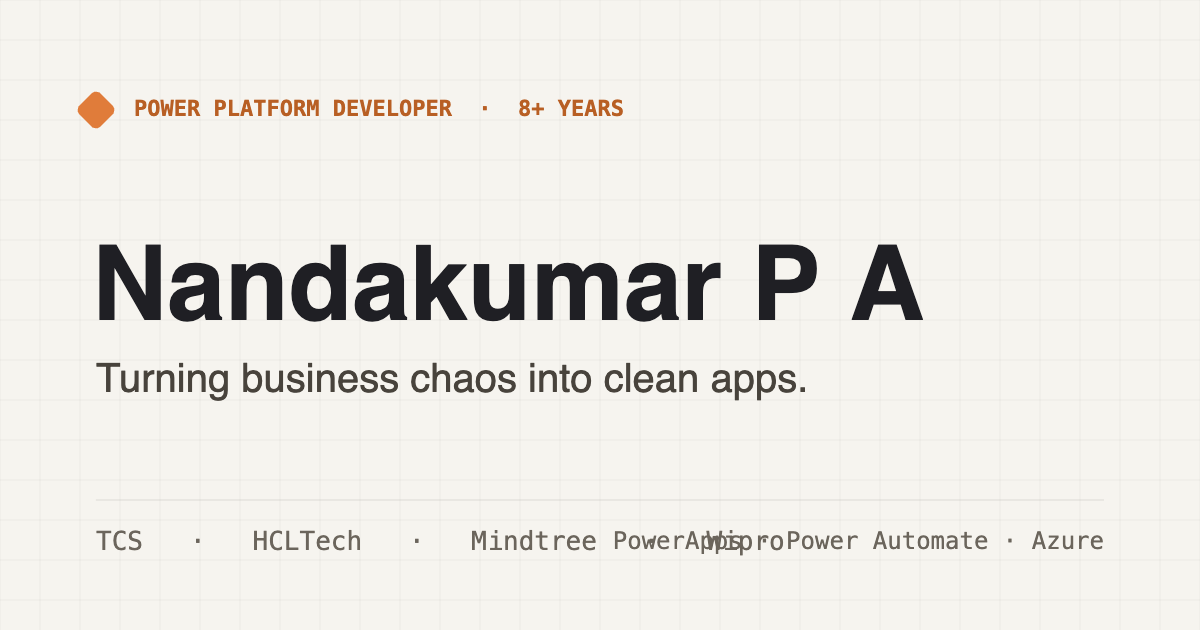
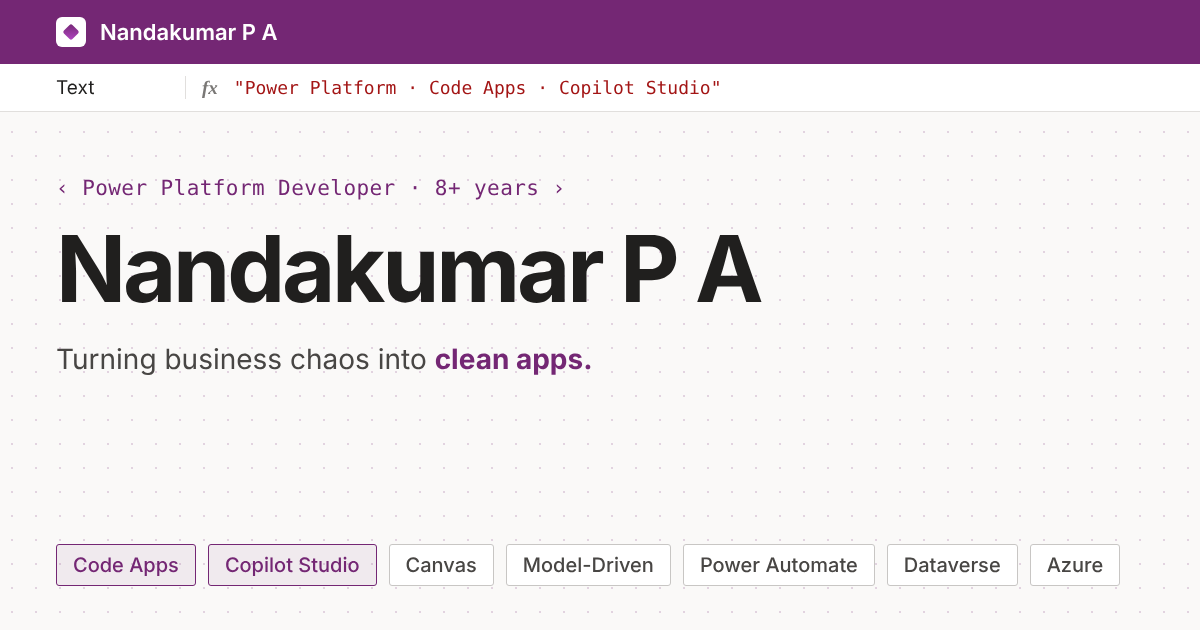
New purple OG image, WebP portrait, drop unused fonts, add JSON-LD, robots, sitemap, analytics
Claude-Session: https://claude.ai/code/session_012kyMgGcSE2nW8ASXeftVtj

diff --git a/Portfolio.html b/Portfolio.html
@@ -23,8 +23,24 @@
 <meta name="twitter:image" content="https://nandaportfolio-neon.vercel.app/assets/og.png" />
 <link rel="preconnect" href="https://fonts.googleapis.com" />
 <link rel="preconnect" href="https://fonts.gstatic.com" crossorigin />
-<link href="https://fonts.googleapis.com/css2?family=Inter:wght@400;500;600;700&family=Space+Grotesk:wght@400;500;600;700&family=Hanken+Grotesk:wght@400;500;600;700&family=JetBrains+Mono:wght@400;500;600&display=swap" rel="stylesheet" />
+<link href="https://fonts.googleapis.com/css2?family=Inter:wght@400;500;600;700&family=JetBrains+Mono:wght@400;500&display=swap" rel="stylesheet" />
 <link rel="stylesheet" href="styles.css" />
+<script type="application/ld+json">
+{
+  "@context": "https://schema.org",
+  "@type": "Person",
+  "name": "Nandakumar P A",
+  "url": "https://nandaportfolio-neon.vercel.app/",
+  "image": "https://nandaportfolio-neon.vercel.app/assets/portrait.webp",
+  "jobTitle": "Power Platform Developer",
+  "description": "Power Platform developer with 8+ years building Canvas, Model-Driven and Code Apps, Power Automate flows and Copilot Studio agents.",
+  "worksFor": { "@type": "Organization", "name": "Tata Consultancy Services" },
+  "alumniOf": { "@type": "CollegeOrUniversity", "name": "BITS Pilani" },
+  "address": { "@type": "PostalAddress", "addressLocality": "Kochi", "addressRegion": "Kerala", "addressCountry": "IN" },
+  "knowsAbout": ["Power Apps", "Power Apps Code Apps", "Power Automate", "Copilot Studio", "Dataverse", "Power Pages", "Azure", "React", "TypeScript"],
+  "sameAs": ["https://www.linkedin.com/in/nandakumarpa/", "https://github.com/Nanda-LowCode"]
+}
+</script>
 </head>
 <body>
 
@@ -79,7 +95,7 @@
       <span class="sel-tag" aria-hidden="true">imgPortrait</span>
       <span class="sel" aria-hidden="true"><i></i><i></i><i></i><i></i><i></i><i></i><i></i><i></i></span>
       <div class="portrait">
-        <img src="assets/portrait.png" alt="Portrait of Nandakumar P A" />
+        <img src="assets/portrait.webp" alt="Portrait of Nandakumar P A" width="720" height="720" fetchpriority="high" />
         <div class="portrait-tag">
           <span><b>Nandakumar P A</b> · Power Platform</span>
           <span class="pulse" aria-hidden="true"></span>
@@ -366,5 +382,6 @@ make.powerapps.com / inventory-ops</div>
 </footer>
 
 <script src="app.js"></script>
+<script defer src="/_vercel/insights/script.js"></script>
 </body>
 </html>

diff --git a/index.html b/index.html
@@ -23,8 +23,24 @@
 <meta name="twitter:image" content="https://nandaportfolio-neon.vercel.app/assets/og.png" />
 <link rel="preconnect" href="https://fonts.googleapis.com" />
 <link rel="preconnect" href="https://fonts.gstatic.com" crossorigin />
-<link href="https://fonts.googleapis.com/css2?family=Inter:wght@400;500;600;700&family=Space+Grotesk:wght@400;500;600;700&family=Hanken+Grotesk:wght@400;500;600;700&family=JetBrains+Mono:wght@400;500;600&display=swap" rel="stylesheet" />
+<link href="https://fonts.googleapis.com/css2?family=Inter:wght@400;500;600;700&family=JetBrains+Mono:wght@400;500&display=swap" rel="stylesheet" />
 <link rel="stylesheet" href="styles.css" />
+<script type="application/ld+json">
+{
+  "@context": "https://schema.org",
+  "@type": "Person",
+  "name": "Nandakumar P A",
+  "url": "https://nandaportfolio-neon.vercel.app/",
+  "image": "https://nandaportfolio-neon.vercel.app/assets/portrait.webp",
+  "jobTitle": "Power Platform Developer",
+  "description": "Power Platform developer with 8+ years building Canvas, Model-Driven and Code Apps, Power Automate flows and Copilot Studio agents.",
+  "worksFor": { "@type": "Organization", "name": "Tata Consultancy Services" },
+  "alumniOf": { "@type": "CollegeOrUniversity", "name": "BITS Pilani" },
+  "address": { "@type": "PostalAddress", "addressLocality": "Kochi", "addressRegion": "Kerala", "addressCountry": "IN" },
+  "knowsAbout": ["Power Apps", "Power Apps Code Apps", "Power Automate", "Copilot Studio", "Dataverse", "Power Pages", "Azure", "React", "TypeScript"],
+  "sameAs": ["https://www.linkedin.com/in/nandakumarpa/", "https://github.com/Nanda-LowCode"]
+}
+</script>
 </head>
 <body>
 
@@ -79,7 +95,7 @@
       <span class="sel-tag" aria-hidden="true">imgPortrait</span>
       <span class="sel" aria-hidden="true"><i></i><i></i><i></i><i></i><i></i><i></i><i></i><i></i></span>
       <div class="portrait">
-        <img src="assets/portrait.png" alt="Portrait of Nandakumar P A" />
+        <img src="assets/portrait.webp" alt="Portrait of Nandakumar P A" width="720" height="720" fetchpriority="high" />
         <div class="portrait-tag">
           <span><b>Nandakumar P A</b> · Power Platform</span>
           <span class="pulse" aria-hidden="true"></span>
@@ -366,5 +382,6 @@ make.powerapps.com / inventory-ops</div>
 </footer>
 
 <script src="app.js"></script>
+<script defer src="/_vercel/insights/script.js"></script>
 </body>
 </html>
